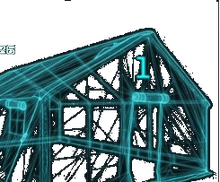
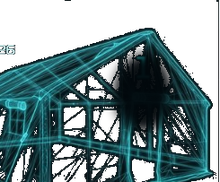
Show live tent number on modal artwork instead of baked-in digit.

Changed region(s): [[0.4909, 0.2473, 0.8182, 0.7692]]

diff --git a/server/static/hub.html b/server/static/hub.html
@@ -221,14 +221,19 @@ select option{background:var(--dropdown-bg);color:#c9fbfb}
   filter:drop-shadow(0 0 10px rgba(25,240,240,.35))
 }
 .freq-tent-art-num{
-  position:absolute;right:18%;top:38%;
-  transform:translate(50%,-50%);
-  min-width:1.2em;text-align:center;
-  font-size:42px;line-height:1;font-weight:600;letter-spacing:.04em;
+  position:absolute;left:62%;top:48%;
+  transform:translate(-50%,-50%);
+  min-width:1.35em;text-align:center;
+  font-size:48px;line-height:1;font-weight:700;letter-spacing:.02em;
   color:var(--cyan);
-  text-shadow:0 0 10px rgba(25,240,240,.85),0 0 2px #001014,0 1px 0 #001014;
-  background:radial-gradient(circle,rgba(1,7,11,.82) 35%,rgba(1,7,11,0) 72%);
-  padding:.12em .18em
+  text-shadow:
+    0 0 12px rgba(25,240,240,.95),
+    0 0 4px rgba(25,240,240,.8),
+    0 1px 2px #000,
+    0 0 1px #000;
+  background:radial-gradient(circle,rgba(1,7,11,.88) 40%,rgba(1,7,11,0) 75%);
+  padding:.08em .12em;
+  font-variant-numeric:tabular-nums
 }
 @media (max-width:560px){
   .freq-tent-hero{grid-template-columns:1fr}
